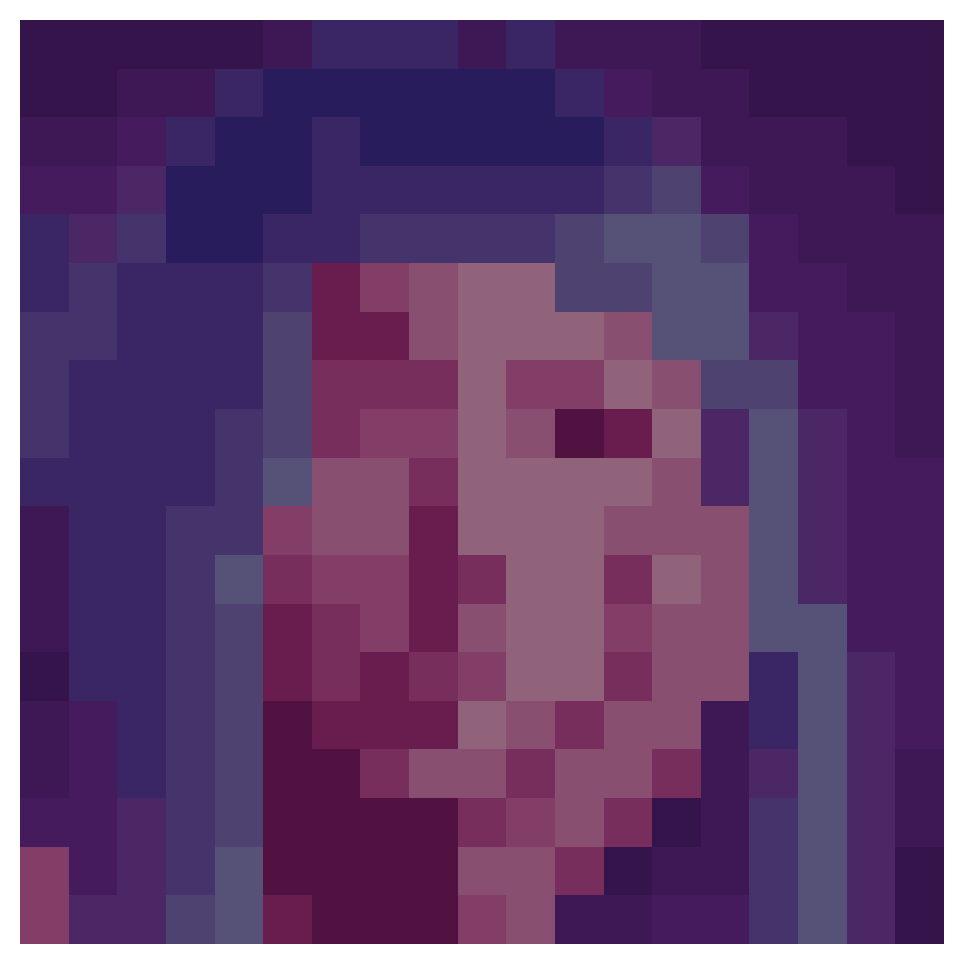
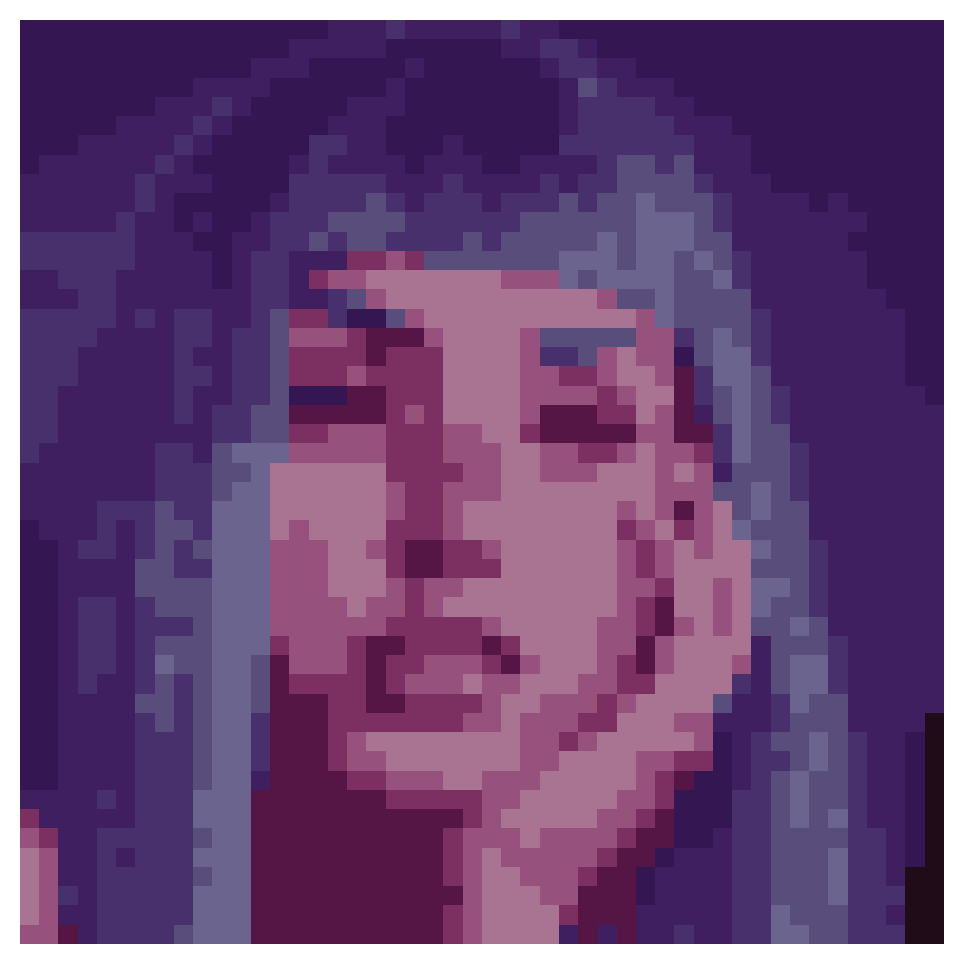
update

diff --git a/pixel_art.py b/pixel_art.py
@@ -35,12 +35,12 @@ def detect_and_crop_face(image_path):
     return cropped_face
 
 # Function to resize the cropped face to a smaller grid
-def resize_to_square(image, size=38):
+def resize_to_square(image, size=48):
     resized_face = cv2.resize(image, (size, size), interpolation=cv2.INTER_AREA)
     return resized_face
 
 # Function to reduce the color palette using KMeans clustering
-def quantize_image(image, num_colors=16):
+def quantize_image(image, num_colors=10):
     pixels = image.reshape(-1, 3)
     kmeans = KMeans(n_clusters=num_colors, random_state=42).fit(pixels)
     new_colors = kmeans.cluster_centers_.astype(int)
@@ -57,7 +57,7 @@ def most_frequent_color(square):
     return most_common_color
 
 # Function to create pixel art by applying dominant color to mini-squares
-def create_pixel_art(image, square_size=2):
+def create_pixel_art(image, square_size=1):
     height, width, _ = image.shape
     pixel_art = np.zeros_like(image)
 
@@ -70,28 +70,27 @@ def create_pixel_art(image, square_size=2):
     return pixel_art
 
 # Function to enhance edges and smooth color transitions
-def enhance_edges_and_smooth(image):
+def enhance_edges_sharper(image):
     gray = cv2.cvtColor(image, cv2.COLOR_BGR2GRAY)
-    blurred = cv2.GaussianBlur(gray, (3, 3), 0)
-    edges = cv2.Canny(blurred, threshold1=80, threshold2=150)
+    blurred = cv2.GaussianBlur(gray, (1, 1), 0)  # Less blur for sharper edges
+    edges = cv2.Canny(blurred, threshold1=50, threshold2=120)  # Sharper edges
     edges_colored = cv2.cvtColor(edges, cv2.COLOR_GRAY2BGR)
     enhanced_image = cv2.addWeighted(image, 0.7, edges_colored, 0.3, 0)
-    smoothed_image = cv2.GaussianBlur(enhanced_image, (3, 3), 0)
+    smoothed_image = cv2.GaussianBlur(enhanced_image, (1, 1), 0)  # Slight smoothing
     return smoothed_image
 
-# Function to process the image and create pixel art with edge enhancement
-def process_image(image_path, square_size=2, num_colors=16):
+# Final function to process the image with 48x48 size and a maximum of 10 colors
+def process_image_with_10_colors(image_path, square_size=48):
     cropped_face = detect_and_crop_face(image_path)
     if cropped_face is not None:
-        # Enhance edges and smooth transitions
-        enhanced_smoothed_face = enhance_edges_and_smooth(cropped_face)
-        # Resize the face
-        resized_face = resize_to_square(enhanced_smoothed_face)
-        # Apply color quantization
-        quantized_face = quantize_image(resized_face, num_colors)
-        # Create pixel art
-        pixel_art = create_pixel_art(quantized_face, square_size=square_size)
-        # Convert to RGB for displaying
+        # Enhance edges with sharper detection
+        enhanced_face = enhance_edges_sharper(cropped_face)
+        resized_face = resize_to_square(enhanced_face, size=48)  # Resize to exactly 48x48
+        # Apply default KMeans color quantization with 10 colors
+        quantized_face = quantize_image(resized_face, num_colors=10)
+        # Create pixel art with square size of 1 (since we resized to 48x48)
+        pixel_art = create_pixel_art(quantized_face, square_size=1)  # Each block should represent 1 pixel of 48x48
+        # Convert to RGB for display
         pixel_art_rgb = cv2.cvtColor(pixel_art, cv2.COLOR_BGR2RGB)
         # Display the result
         plt.imshow(pixel_art_rgb)
@@ -100,7 +99,5 @@ def process_image(image_path, square_size=2, num_colors=16):
     else:
         print("Face not detected.")
 
-# Example usage
-if __name__ == "__main__":
-    image_path = 'your_image_path_here.jpg'
-    process_image(image_path, square_size=2, num_colors=16)
+# Example usage:
+# process_image_with_10_colors('your_image_path_here.jpg')

diff --git a/README.md b/README.md
@@ -28,10 +28,8 @@ your-repo-name/
 ### 1. Clone the Repository
 First, clone the repository to your local machine:
 ```bash
-git clone https://github.com/KenanAegean/PixelArt-Maker
-.git
+git clone https://github.com/KenanAegean/PixelArt-Maker.git
 cd PixelArt-Maker
-
 ```
 
 ### 2. Install Dependencies
